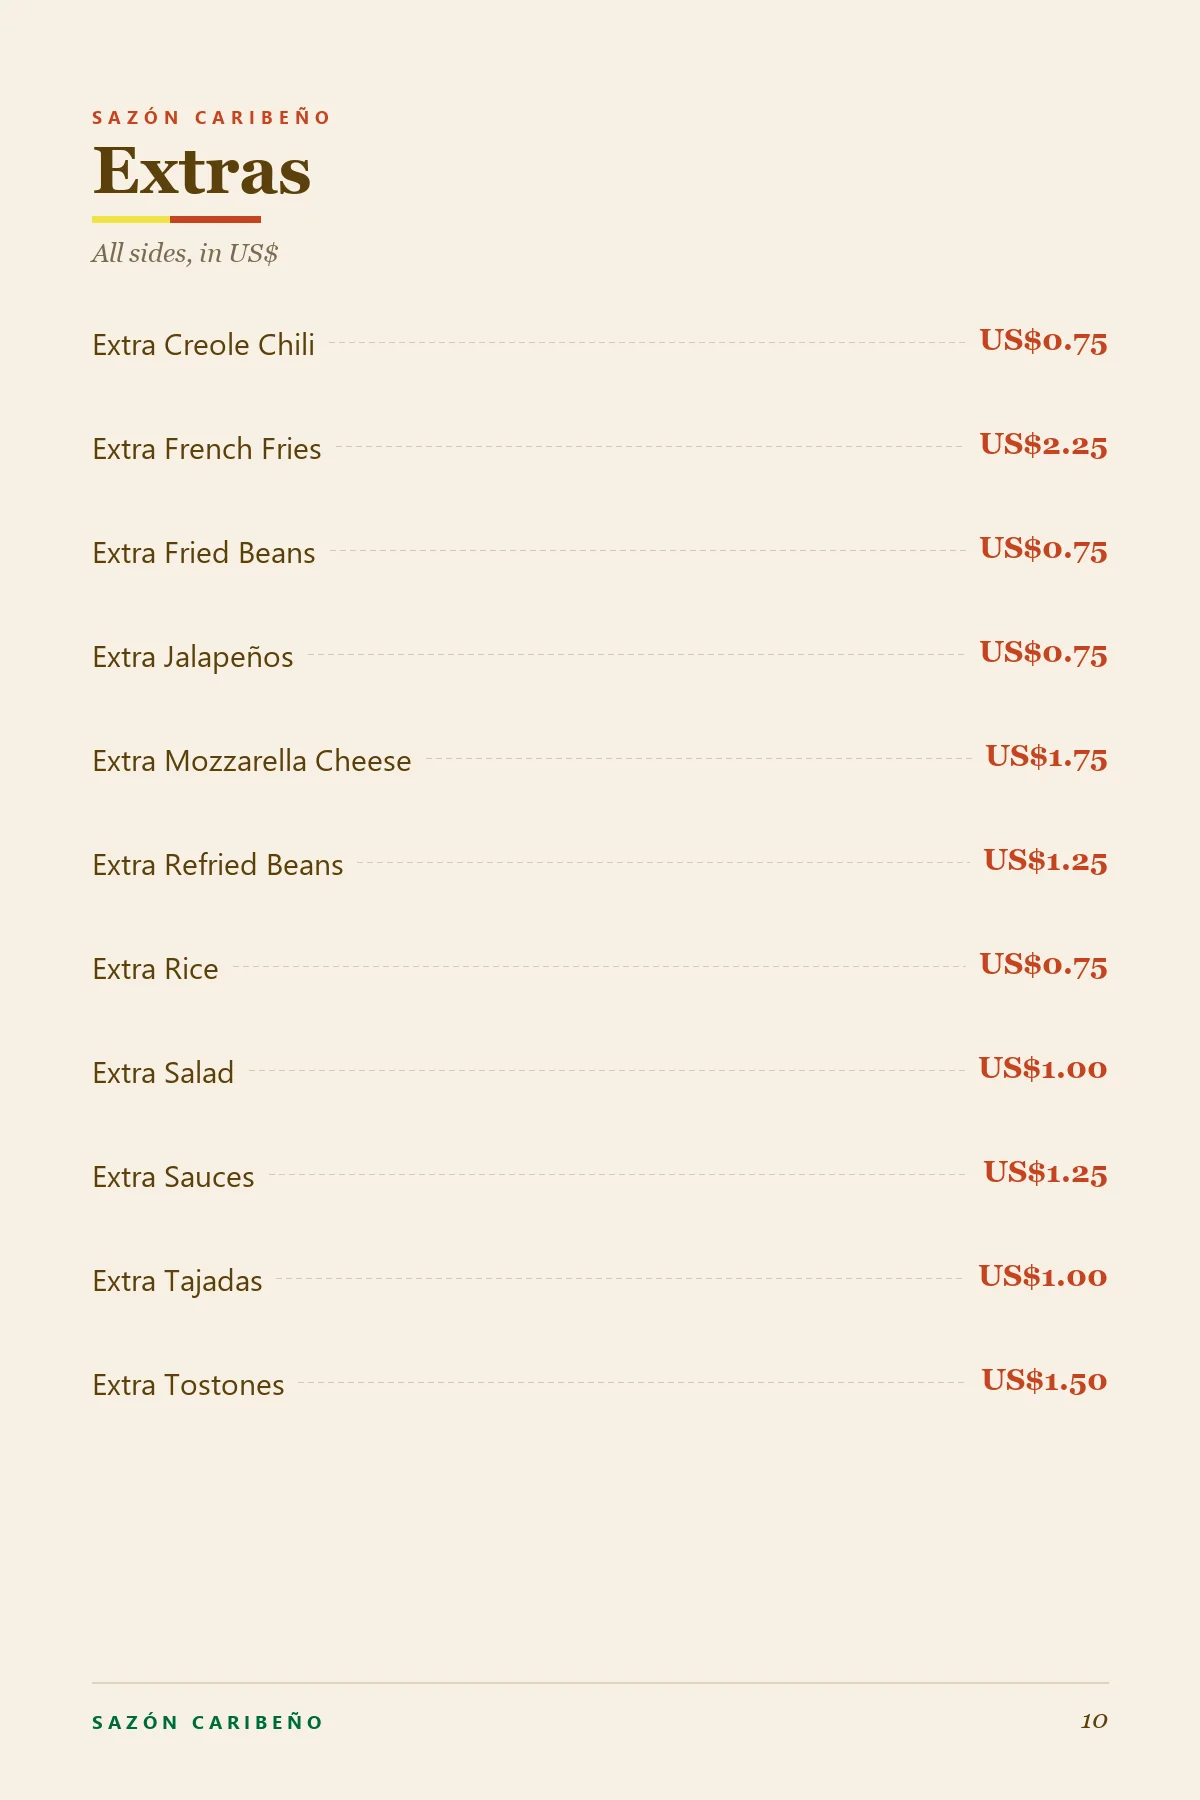
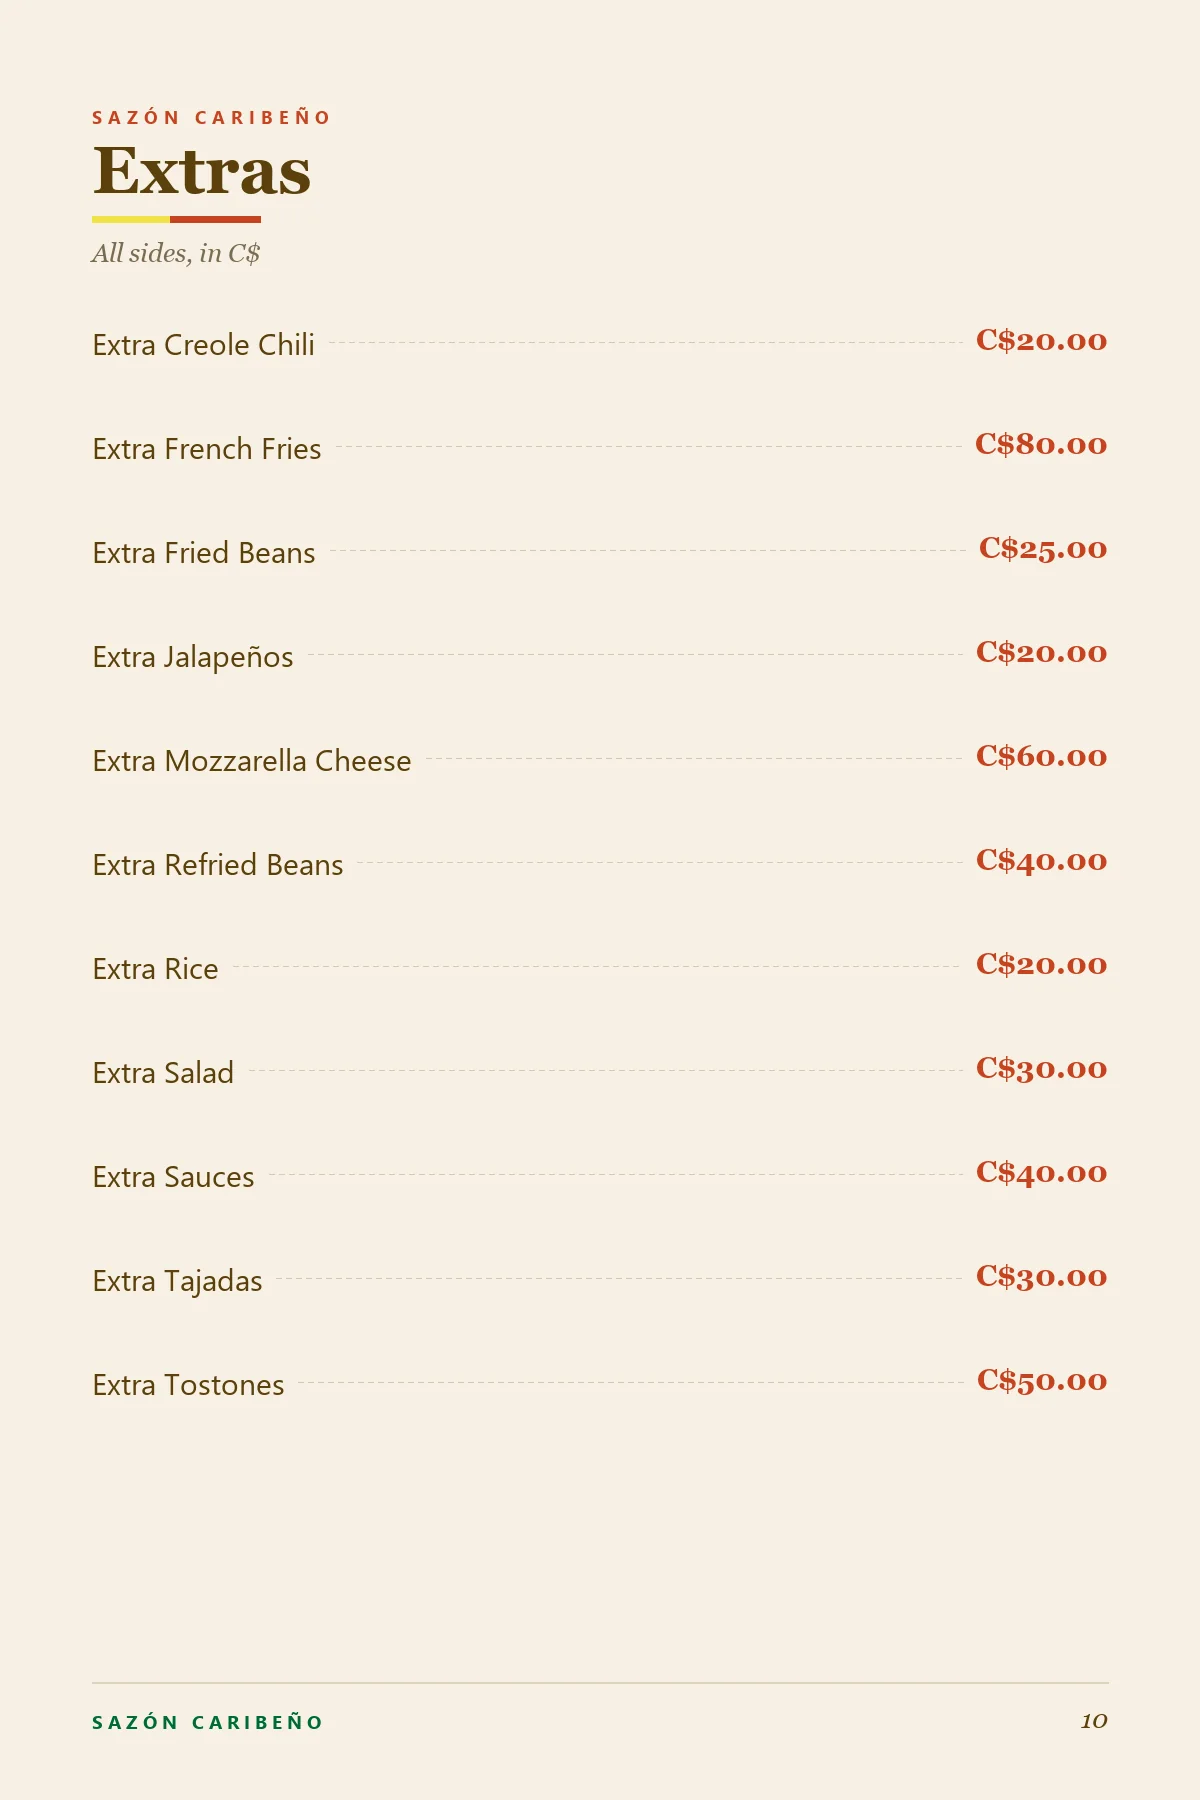
fix(carta): la version en ingles vuelve a mostrar precios en cordobas

diff --git a/AGENTS.md b/AGENTS.md
@@ -596,9 +596,9 @@ No se tocó nada de la animación: `flippingTime: 900`, `drawShadow`, `maxShadow
 - **Selector**: `#btn-idioma-es` / `#btn-idioma-en` (`.idiomas` en la cabecera, `aria-pressed` marca el activo). Cambia `RUTA_PAGINAS` a `paginas/en/`, reconstruye las hojas, remonta el libro **conservando la página actual** (`getCurrentPageIndex()` → `turnToPage()`) y actualiza los textos de interfaz (`TEXTOS` en `menu-libro.js`): lema, botón Ampliar, pista, títulos/aria del visor, `alt` de cada hoja, `document.title` y `document.documentElement.lang`.
 - **Persistencia y enlace directo**: la elección se guarda en `localStorage` (`carta_idioma`); `?idioma=en` abre la carta directamente en inglés (se aplica sin pisar la preferencia guardada hasta que el usuario pulsa el selector).
 - **Respaldo**: si `paginas/en/01.webp` no existe, el motor arranca en español y el botón EN no cambia nada (nunca queda un libro vacío).
-- **Generación**: `python -X utf8 generar_paginas.py --idioma en --tipo-cambio 36.62 --redondeo 0.25` (en el prototipo del escritorio) consulta `/api/public/menu`, aplica `traducciones.json` (clave = nombre en español sin emojis) y escribe en `paginas/en/`. Sin el archivo de traducciones el script se detiene con un mensaje explícito; un plato sin traducción conserva su nombre original y se lista en el log.
-- **Precios en dólares (solo inglés)**: la versión en inglés muestra los precios en **US$**. El generador convierte cada precio desde córdobas con `--tipo-cambio` (por defecto el oficial del BCN para 2026: `36.62`) y lo redondea **hacia arriba** a `--redondeo` (por defecto `US$0.25`) para no perder margen (`--redondeo 0` deja dos decimales exactos). Si cambia el tipo de cambio o la política de precios, se regeneran las páginas y se reemplazan los archivos; no hay conversión en vivo porque el libro son imágenes. La portada en inglés dice `NICARAGUA · US$ · CARIBBEAN CUISINE` y la sección Extras `All sides, in US$`.
-- **Alcance**: se traducen nombres, descripciones, títulos de sección, portada, contraportada y el pie; la marca `SAZÓN CARIBEÑO` se mantiene. Los precios salen de la misma API, así que ambas versiones siempre coinciden (la española en `C$`, la inglesa en `US$`).
+- **Generación**: `python -X utf8 generar_paginas.py --idioma en` (en el prototipo del escritorio) consulta `/api/public/menu`, aplica `traducciones.json` (clave = nombre en español sin emojis) y escribe en `paginas/en/`. Sin el archivo de traducciones el script se detiene con un mensaje explícito; un plato sin traducción conserva su nombre original y se lista en el log.
+- **Precios**: siempre en córdobas (`C$`) en ambos idiomas. La versión en inglés traduce nombres, descripciones y títulos, pero no convierte la moneda. Los precios salen de la misma API, así que ambas versiones siempre coinciden.
+- **Alcance**: se traducen nombres, descripciones, títulos de sección, portada, contraportada y el pie; la marca `SAZÓN CARIBEÑO` se mantiene.
 
 **Regenerar desde la base de datos**: el prototipo incluye `generar_paginas.py` (vive en el prototipo original, no en el repo), que consulta `/api/public/menu` y redibuja las hojas con las fotos reales.
 
